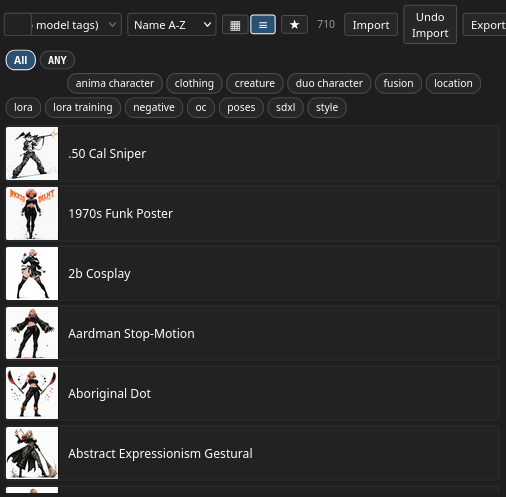
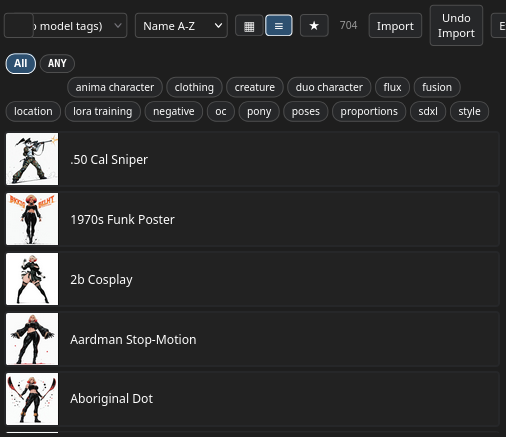
Refresh screenshots for v0.57.1; add Multi-Library + Upscale SDXL scenarios
- Refreshed all 10 existing scenarios so they pick up the v0.57.0 frontend
  overhaul (token consolidation, accent colors, custom tooltips)
- Added `multi-library-3-panels.png` showing the per-panel isolation
  fixed in v0.57.1 — referenced from the README
- Added `upscale-sdxl-node.png` + workflow JSON for the new node
- Documented the Upscale SDXL node entry in README under a new Upscale
  section
- Marked `multi-library-3-panels.png` as done in SCREENSHOTS_TODO.md

Note: the Upscale screenshot is missing its IMAGE input socket — Comfy's
v3 frontend appears to drop it from the rendered input list even though
the server reports it correctly via /object_info. Followup investigation
needed.

Changed region(s): [[0.0, 0.0297, 1.0, 1.0], [0.1482, 0.357, 0.2964, 0.3867], [0.1482, 0.2975, 0.2964, 0.3272]]

diff --git a/tools/screenshots/run.py b/tools/screenshots/run.py
@@ -366,6 +366,34 @@ def _scn_style_node_with_sockets(page: Page, out: Path) -> None:
     screenshot_node(page, "PromptLibraryStyle", out)
 
 
+def _scn_multi_library_3_panels(page: Page, out: Path) -> None:
+    """Multi Library node — three independent gallery panels in one node.
+    Captures the post-v0.57.1 layout where each panel keeps its own
+    selection state (and its own localStorage tier-3 entry)."""
+    wait_for_gallery(page)
+    page.evaluate("""() => {
+        const ds = window.app?.canvas?.ds;
+        if (ds) { ds.scale = 1.0; ds.offset = [0, 0]; }
+        window.app?.canvas?.draw?.(true, true);
+    }""")
+    page.wait_for_timeout(300)
+    screenshot_node(page, "PromptLibraryMulti", out)
+
+
+def _scn_upscale_sdxl_node(page: Page, out: Path) -> None:
+    """Full Upscale SDXL node — IMAGE/MODEL/VAE/CONDITIONING inputs, the
+    full widget stack (denoise / cfg / tile_* / cn_* / seam_fix_*), and
+    the IMAGE output. New in v0.57.1."""
+    page.wait_for_timeout(500)
+    page.evaluate("""() => {
+        const ds = window.app?.canvas?.ds;
+        if (ds) { ds.scale = 1.0; ds.offset = [0, 0]; }
+        window.app?.canvas?.draw?.(true, true);
+    }""")
+    page.wait_for_timeout(300)
+    screenshot_node(page, "GrimmRibbityUpscaleSDXL", out)
+
+
 SCENARIOS: list[Scenario] = [
     Scenario("library-gallery", "library-minimal.json",
               _scn_library_gallery,
@@ -376,6 +404,12 @@ SCENARIOS: list[Scenario] = [
     Scenario("style-node-with-sockets", "style-minimal.json",
               _scn_style_node_with_sockets,
               "Full Style node showing MODEL/CLIP/CONDITIONING in/out (v0.29+)."),
+    Scenario("multi-library-3-panels", "multi-library-minimal.json",
+              _scn_multi_library_3_panels,
+              "Multi Library node with three independent panels (v0.57.1 fix: per-panel localStorage)."),
+    Scenario("upscale-sdxl-node", "upscale-sdxl-minimal.json",
+              _scn_upscale_sdxl_node,
+              "Full Upscale SDXL node with all widgets visible (new in v0.57.1)."),
     Scenario("gallery-list-view", "library-minimal.json",
               _scn_gallery_list_view,
               "Library gallery in single-column list mode."),

diff --git a/README.md b/README.md
@@ -70,7 +70,9 @@ After install, find them under **GrimmRibbity/** sub-menus in the node picker:
 - **GrimmRibbity — Style (LoRA + Conditioning)** — like the Library node above but takes the next step: also encodes the joined positive + negative on the patched CLIP and emits `CONDITIONING` outputs (concatted onto optional inputs). Same gallery, same LoRA stack, but skips the separate CLIPTextEncode step. `bypass` toggle for A/B comparisons; `strength_scale` multiplies every LoRA at once.
 
   ![Style node](docs/screenshots/style-node-with-sockets.png)
-- **GrimmRibbity — Multi Library (3 panels)** — three independent gallery panels in one node, replaces 3× Library + 2× Join Strings spaghetti
+- **GrimmRibbity — Multi Library (3 panels)** — three independent gallery panels in one node, replaces 3× Library + 2× Join Strings spaghetti. Each panel keeps its own search / tag-filter / sort / selection state, persisted per-panel across page refreshes (v0.57.1: fixed a localStorage collision where the three panels stomped each other's saved selection).
+
+  ![Multi Library 3 panels](docs/screenshots/multi-library-3-panels.png)
 - **GrimmRibbity — Save** — write prompts to the library during workflow runs. Inputs: `name`, `text`, optional `negative`, optional `IMAGE` thumbnail, optional `tags`, optional `prompt_id` (override target id), `overwrite_by_name` (when set, updates the most-recently-edited entry sharing the typed name instead of appending a new one), `loras_json` (programmatic LoRA stack as JSON). Logs the lookup path on every save (`via=prompt_id` / `via=overwrite_by_name` / `via=new`) so a sticky widget value is visible in the console.
 - **GrimmRibbity — Random by Tag** — pick a random library entry by tag filter (outputs text, id, negative). Built for overnight loops
 - **GrimmRibbity — Wildcard Expand** — expand `{a|b|c}` alternatives and `__name__` library refs in any string
@@ -94,6 +96,9 @@ After install, find them under **GrimmRibbity/** sub-menus in the node picker:
 - **GrimmRibbity — Anima Sampler** — KSampler-shaped sampler for Qwen / Flux / SD3 / any flow-matching base. Pre-encoded CONDITIONING + MODEL + LATENT directly, no SDXL-specific tuple.
 - **GrimmRibbity — HiResFix Script** (SDXL) — latent / pixel / both upscale, optional checkpoint swap, per-iteration ControlNet anchoring, per-field hires prompt overrides, 1–5 iterations. Pixel upscale model + ControlNet load **once per run** instead of once per iteration; hires checkpoint cached across workflow re-runs (1-slot LRU). Auto-tiles VAE decode for outputs >1536px.
 - **GrimmRibbity — Anima HiResFix Script** — shape-agnostic latent upscale (works on 5D Qwen latents). Per-iteration ProgressBar, refinement-only mode at scale=1.0, same auto-tile decode.
+
+**Upscale**
+- **GrimmRibbity — Upscale SDXL** *(new in v0.57.1)* — single-node tile-diffusion upscaler. Pre-upscales the input (via `upscale_model` if wired, otherwise Lanczos to `upscale_by`), optionally applies an SDXL tile ControlNet to the conditioning, then walks the canvas tile-by-tile with a low-denoise sampler and feather-blends each tile back in. Defaults match the Magnific Precise V2 / Clarity recipe (denoise 0.25, CFG 4.0, CN strength 0.5, 512 px tiles). `bypass=True` skips the diffusion pass and returns the upscaled image directly. Replaces the LoadControlNet + ApplyControlNet + UltimateSDUpscale chain with one node, all knobs exposed.
 
 Both samplers have an opt-in `save_prompt_log` toggle (default off) — when enabled, every queued sample appends one JSONL line to `prompt_log_path` (empty = `<output>/prompt_logs/prompts.jsonl`) with the positive + negative prompts, the LoRA stack walked from the workflow trace, the model, and the sampler params (seed/steps/cfg/sampler_name/scheduler). One growing file per overnight batch — `jq`-friendly, no per-image directory pollution.
 

diff --git a/docs/SCREENSHOTS_TODO.md b/docs/SCREENSHOTS_TODO.md
@@ -40,7 +40,7 @@ python3 tools/screenshots/run.py
 
 ## Other library nodes
 
-- [ ] `multi-library-3-panels.png` — Multi Library node showing three panels with different filters (e.g. Character / Style / Clothing).
+- [x] `multi-library-3-panels.png` — Multi Library node showing three panels with different filters (e.g. Character / Style / Clothing).
 - [ ] `random-by-tag-overnight.png` — three Random by Tag nodes feeding a concat → CLIPTextEncode → KSampler chain. The classic overnight pattern.
 - [ ] `wildcard-expand-text.png` — Wildcard Expand node with a `{a|b|c}` and `__char__` reference, output text shown.
 - [ ] `save-node.png` — Save node mid-run capturing a freshly-generated image to the library.
